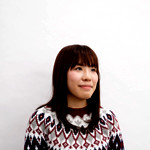
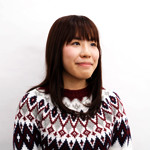
Updated a profile photo

diff --git a/sass/keita-lab.scss b/sass/keita-lab.scss
@@ -1,3 +1,11 @@
+/* Color set */
+$keita-lab-black: #252525;
+$keita-lab-blue: #6490D3;
+$keita-lab-yellow: #EACA2A;
+$keita-lab-red: #CA3842;
+$keita-lab-orange: #D75C36;
+$keita-lab-brown: #5C3926;
+
 /* Font family */
 @font-face {
     font-family: 'Noto Sans Japanese';
@@ -51,7 +59,7 @@
 body {
     font-family: 'Lato', 'Noto Sans Japanese', 'Yu Gothic', "Hiragino Gothic ProN","hiragino mincho", "Meiryo", cursive;
     font-size: 12px;
-    // font-weight: 200;
+    font-weight: 300;
 }
 h1, h2, h3, h4, h5, h6 {
   font-family: 'Lato', 'Noto Sans Japanese', Arial, serif;
@@ -175,20 +183,20 @@ div.main {
 div.profile-container {
   margin-bottom: 15px;
   background-color: #fdfdfd;
+  img.profile-thumbnail {
+    float: left;
+  }
+  div.profile-name {
+    margin-top: 0px;
+    margin-left: 15px;
+    margin-right: 0px;
+    font-size: 20px;
+    font-weight: 300;
+    // font-style: thin;
+    text-align: left;
+    float: left;
+  }
 }
-img.profile-thumbnail {
-  float: left;
-}
-div.profile-name {
-  margin-top: 0px;
-  margin-left: 15px;
-  font-size: 20px;
-  font-weight: 300;
-  // font-style: thin;
-  text-align: left;
-  float: left;
-}
-
 /* credit */
 #credit {
   text-align: center;

diff --git a/dist/css/keita-lab.css b/dist/css/keita-lab.css
@@ -1,3 +1,4 @@
+/* Color set */
 /* Font family */
 @font-face {
   font-family: 'Noto Sans Japanese';
@@ -47,7 +48,8 @@
 /* Common */
 body {
   font-family: 'Lato', 'Noto Sans Japanese', 'Yu Gothic', "Hiragino Gothic ProN","hiragino mincho", "Meiryo", cursive;
-  font-size: 12px; }
+  font-size: 12px;
+  font-weight: 300; }
 
 h1, h2, h3, h4, h5, h6 {
   font-family: 'Lato', 'Noto Sans Japanese', Arial, serif;
@@ -155,17 +157,16 @@ div.main {
 div.profile-container {
   margin-bottom: 15px;
   background-color: #fdfdfd; }
-
-img.profile-thumbnail {
-  float: left; }
-
-div.profile-name {
-  margin-top: 0px;
-  margin-left: 15px;
-  font-size: 20px;
-  font-weight: 300;
-  text-align: left;
-  float: left; }
+  div.profile-container img.profile-thumbnail {
+    float: left; }
+  div.profile-container div.profile-name {
+    margin-top: 0px;
+    margin-left: 15px;
+    margin-right: 0px;
+    font-size: 20px;
+    font-weight: 300;
+    text-align: left;
+    float: left; }
 
 /* credit */
 #credit {
